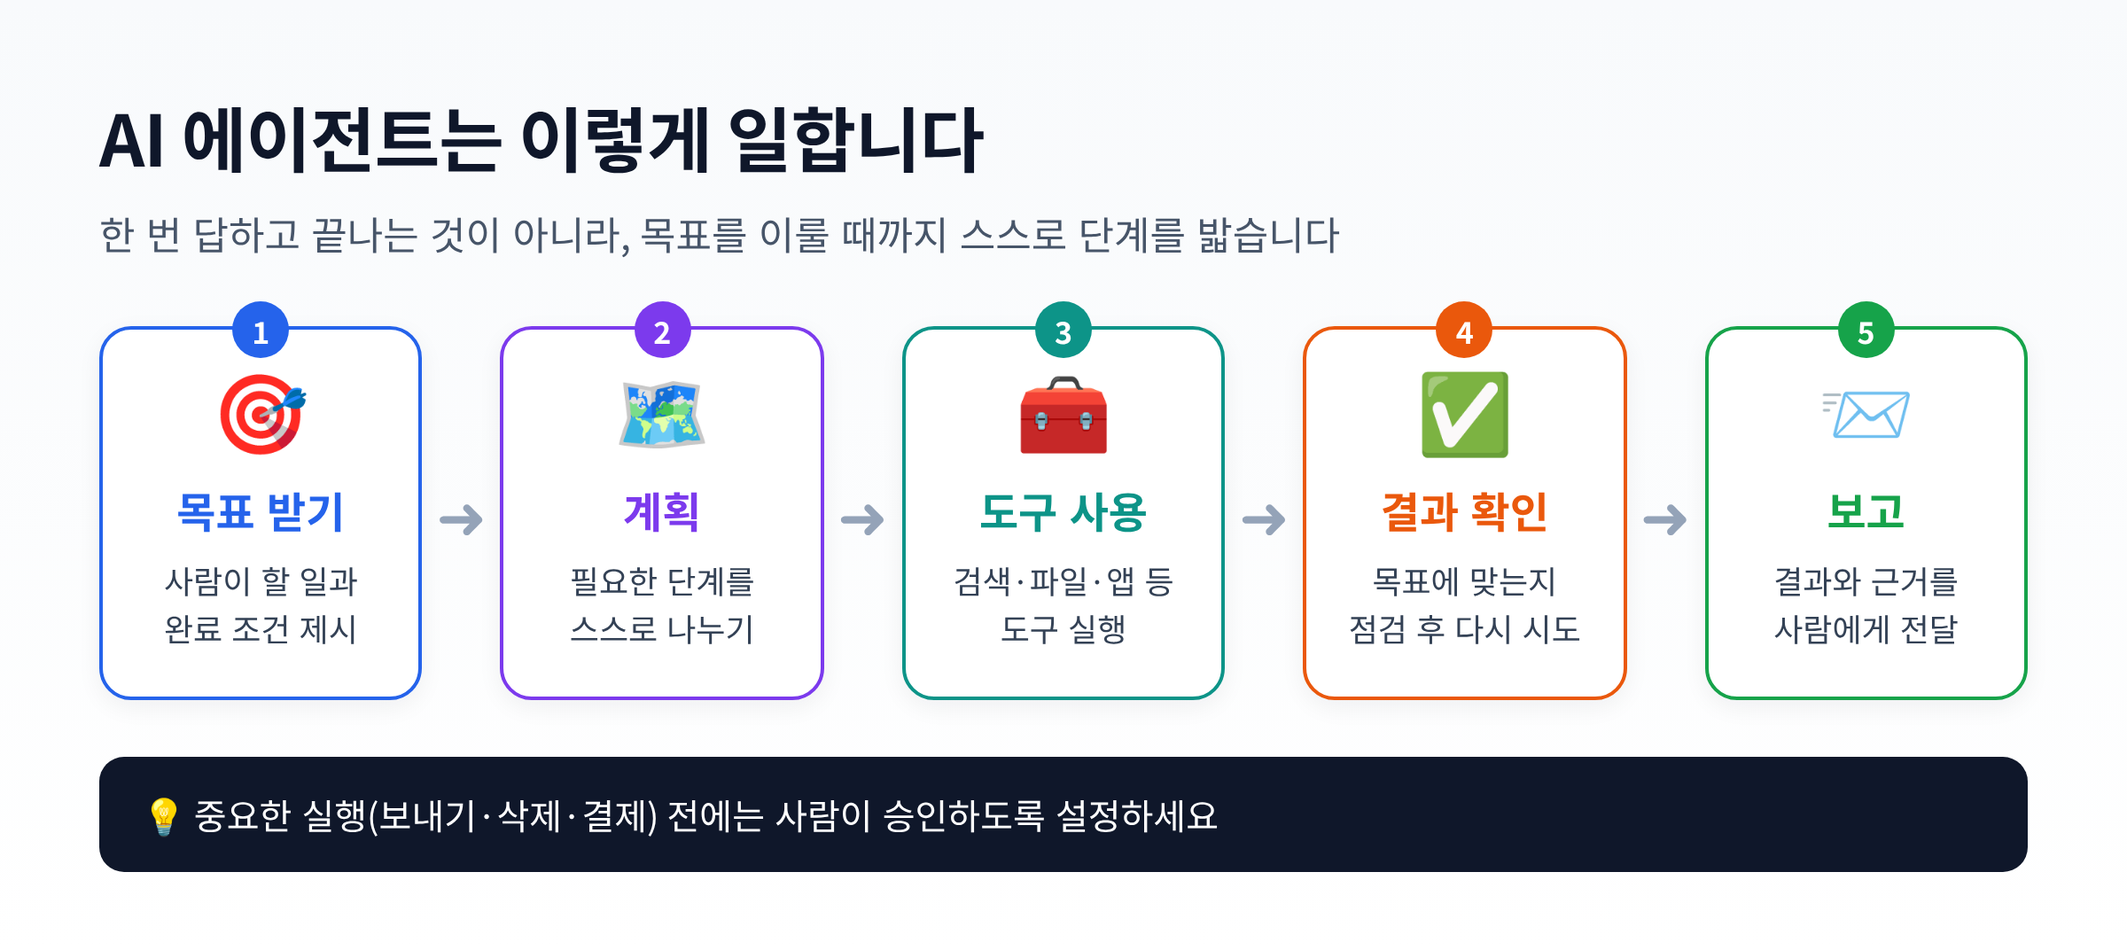
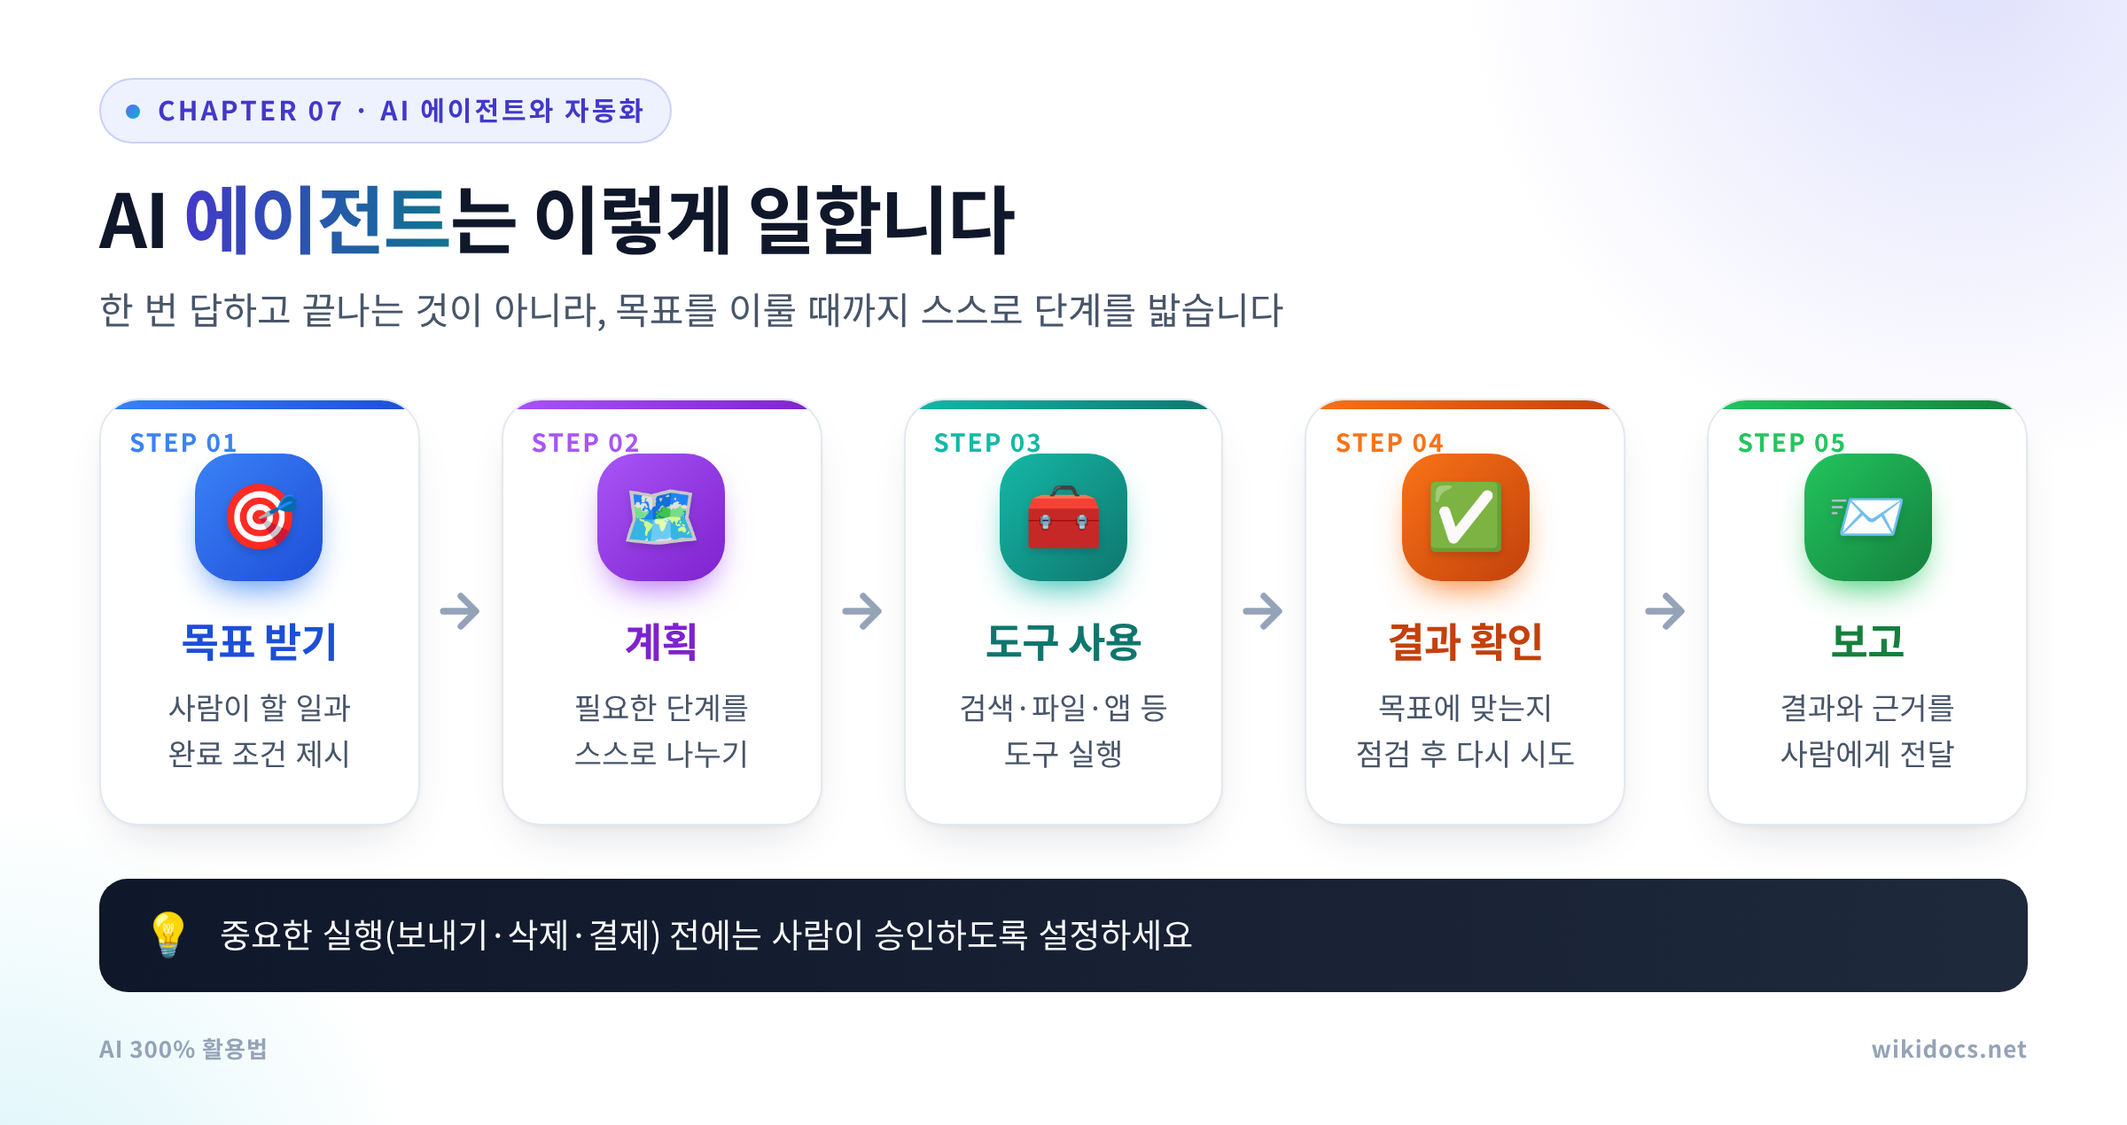
docs: 설명 이미지 디자인 v2 적용
- 14개 이미지 재생성: 책 색 테마(인디고·시안), 장 라벨, 제목 그라데이션 강조, 아이콘 배지
- build_diagrams.py v2: spectrum·triple·stack 레이아웃 추가

Claude-Session: https://claude.ai/code/session_017K4pTUipCchhp4okmF8AU1

diff --git a/tools/build_diagrams.py b/tools/build_diagrams.py
@@ -1,11 +1,20 @@
 #!/usr/bin/env python3
-"""tools/diagrams.yaml 에 정의한 설명 이미지를 assets/*.png 로 만듭니다.
+"""tools/diagrams.yaml 에 정의한 설명 이미지를 assets/*.png 로 만듭니다. (디자인 v2)
 
 사용법:
     python tools/build_diagrams.py            # 전체 다시 만들기
     python tools/build_diagrams.py ch01       # 파일 이름에 'ch01' 이 들어간 것만
 
-필요한 것: Python(pyyaml), Node.js + Playwright(Chromium), 한글 글꼴(Noto Sans CJK KR)
+layout 종류
+    flow     단계 흐름 (steps)
+    cards    카드 묶음 (cards, columns)
+    compare  나쁜 예 → 좋은 예 (left, right)
+    matrix   2x2 판단표 (x_axis, y_axis, cells)
+    spectrum 왼쪽→오른쪽 연속 스펙트럼 (items, left_label, right_label)
+    triple   그래프 관계 (rows: [주어, 관계, 목적어])
+    stack    아래에서 위로 쌓이는 계층 (layers: 위층이 먼저)
+
+필요한 것: Python(pyyaml), Node.js + Playwright, 한글 글꼴(Noto Sans CJK KR), 이모지 글꼴(Noto Color Emoji)
 """
 from __future__ import annotations
 
@@ -21,118 +30,196 @@ import yaml
 ROOT = Path(__file__).resolve().parent.parent
 ASSETS = ROOT / "assets"
 
-COLORS = {  # (진한 색, 연한 배경)
-    "blue": ("#2563EB", "#EFF6FF"), "green": ("#16A34A", "#F0FDF4"),
-    "orange": ("#EA580C", "#FFF7ED"), "purple": ("#7C3AED", "#F5F3FF"),
-    "red": ("#DC2626", "#FEF2F2"), "teal": ("#0D9488", "#F0FDFA"),
-    "gray": ("#475569", "#F1F5F9"),
+PALETTE = {  # 이름: (진한, 중간, 연한)
+    "blue": ("#1D4ED8", "#3B82F6", "#EFF6FF"), "indigo": ("#4338CA", "#6366F1", "#EEF2FF"),
+    "violet": ("#6D28D9", "#8B5CF6", "#F5F3FF"), "purple": ("#7E22CE", "#A855F7", "#FAF5FF"),
+    "pink": ("#BE185D", "#EC4899", "#FDF2F8"), "red": ("#B91C1C", "#EF4444", "#FEF2F2"),
+    "orange": ("#C2410C", "#F97316", "#FFF7ED"), "amber": ("#B45309", "#F59E0B", "#FFFBEB"),
+    "green": ("#15803D", "#22C55E", "#F0FDF4"), "emerald": ("#047857", "#10B981", "#ECFDF5"),
+    "teal": ("#0F766E", "#14B8A6", "#F0FDFA"), "cyan": ("#0E7490", "#06B6D4", "#ECFEFF"),
+    "slate": ("#334155", "#64748B", "#F1F5F9"), "gray": ("#334155", "#64748B", "#F1F5F9"),
 }
 
-CSS = """
-* { box-sizing: border-box; margin: 0; padding: 0; }
-body { background: #fff; font-family: 'Noto Sans CJK KR', 'Noto Sans KR', sans-serif; color: #0F172A; }
-#c { width: 1200px; padding: 48px 56px 44px; background: linear-gradient(180deg, #F8FAFC 0%, #FFFFFF 100%); }
-h1 { font-size: 40px; font-weight: 700; letter-spacing: -0.5px; }
-.sub { margin-top: 10px; font-size: 22px; color: #475569; }
-.body { margin-top: 36px; }
-.icon { font-size: 44px; line-height: 1; font-family: 'Noto Color Emoji', sans-serif; }
-.t { font-size: 24px; font-weight: 700; margin-top: 14px; }
-.d { font-size: 18px; color: #334155; margin-top: 10px; line-height: 1.5; white-space: pre-line; }
-.note { margin-top: 32px; padding: 18px 24px; border-radius: 14px; background: #0F172A; color: #fff;
-        font-size: 20px; font-weight: 500; }
-.note b { color: #FDE68A; }
-/* flow */
-.flow { display: flex; align-items: stretch; }
-.step { flex: 1; background: #fff; border-radius: 18px; padding: 26px 18px 24px; text-align: center;
-        border: 2px solid var(--c); box-shadow: 0 4px 14px rgba(15,23,42,.06); position: relative; }
-.step .t { color: var(--c); }
-.num { position: absolute; top: -16px; left: 50%; transform: translateX(-50%); width: 32px; height: 32px;
-       border-radius: 50%; background: var(--c); color: #fff; font-size: 17px; font-weight: 700;
-       display: flex; align-items: center; justify-content: center; }
-.arrow { width: 44px; display: flex; align-items: center; justify-content: center; color: #94A3B8; font-size: 34px; flex: none; }
-/* cards */
-.grid { display: grid; gap: 20px; }
-.card { background: var(--b); border-radius: 18px; padding: 26px 22px; border-top: 6px solid var(--c); }
-.card .t { color: var(--c); }
-/* compare */
-.cmp { display: grid; grid-template-columns: 1fr 70px 1fr; align-items: stretch; }
-.col { border-radius: 18px; padding: 26px 28px; }
-.col h2 { font-size: 26px; margin-bottom: 16px; }
-.col li { list-style: none; font-size: 20px; line-height: 1.5; padding: 12px 16px; margin-top: 10px;
-          background: #fff; border-radius: 10px; }
-.bad { background: #FEF2F2; border: 2px solid #FCA5A5; } .bad h2 { color: #DC2626; }
-.good { background: #F0FDF4; border: 2px solid #86EFAC; } .good h2 { color: #16A34A; }
-.bad li::before { content: '✕  '; color: #DC2626; font-weight: 700; }
-.good li::before { content: '✓  '; color: #16A34A; font-weight: 700; }
-.mid { display: flex; align-items: center; justify-content: center; font-size: 40px; color: #94A3B8; }
-/* matrix */
-.mx { display: grid; grid-template-columns: 200px 1fr 1fr; grid-template-rows: 56px 1fr 1fr; gap: 16px; }
-.ax { display: flex; align-items: center; justify-content: center; font-size: 20px; font-weight: 700;
-      color: #334155; background: #E2E8F0; border-radius: 12px; text-align: center; padding: 8px; }
-.cell { background: var(--b); border: 2px solid var(--c); border-radius: 18px; padding: 26px; text-align: center; }
-.cell .t { color: var(--c); }
-"""
+
+def pal(name: str | None, default: str) -> tuple[str, str, str]:
+    return PALETTE.get(name or default, PALETTE[default])
 
 
 def esc(s) -> str:
-    return html.escape(str(s or ""))
+    return html.escape(str(s if s is not None else ""))
 
 
-def style(color: str) -> str:
-    c, b = COLORS.get(color or "blue", COLORS["blue"])
-    return f"--c:{c};--b:{b}"
+def css(theme: dict) -> str:
+    p1, p2, p3 = pal(theme.get("primary"), "indigo")
+    s1, s2, _ = pal(theme.get("secondary"), "cyan")
+    return f"""
+* {{ box-sizing: border-box; margin: 0; padding: 0; }}
+body {{ background: #fff; font-family: 'Noto Sans CJK KR', sans-serif; color: #0F172A; -webkit-font-smoothing: antialiased; }}
+#c {{ width: 1200px; padding: 44px 56px 34px; position: relative; overflow: hidden; background: #FFFFFF; }}
+#c::before {{ content: ''; position: absolute; width: 620px; height: 620px; right: -220px; top: -330px;
+  background: radial-gradient(circle, {p2}33 0%, transparent 65%); }}
+#c::after {{ content: ''; position: absolute; width: 520px; height: 520px; left: -260px; bottom: -320px;
+  background: radial-gradient(circle, {s2}26 0%, transparent 65%); }}
+.z {{ position: relative; z-index: 1; }}
+.kicker {{ display: inline-flex; align-items: center; gap: 10px; font-size: 15px; font-weight: 700; letter-spacing: 1.5px;
+  color: {p1}; background: {p3}; border: 1px solid {p2}40; padding: 7px 14px; border-radius: 999px; }}
+.kicker .dot {{ width: 8px; height: 8px; border-radius: 50%; background: linear-gradient(135deg, {p2}, {s2}); }}
+h1 {{ margin-top: 16px; font-size: 42px; font-weight: 800; letter-spacing: -1px; line-height: 1.25; }}
+h1 em {{ font-style: normal; background: linear-gradient(90deg, {p1}, {s1}); -webkit-background-clip: text; color: transparent; }}
+.sub {{ margin-top: 10px; font-size: 21px; color: #475569; line-height: 1.5; }}
+.body {{ margin-top: 34px; }}
+.badge {{ width: 72px; height: 72px; border-radius: 22px; display: flex; align-items: center; justify-content: center;
+  font-size: 36px; font-family: 'Noto Color Emoji', sans-serif; background: linear-gradient(135deg, var(--m), var(--d));
+  box-shadow: 0 10px 20px -8px var(--m); }}
+.badge span {{ filter: drop-shadow(0 2px 2px rgba(0,0,0,.15)); }}
+.t {{ font-size: 23px; font-weight: 800; letter-spacing: -0.3px; color: var(--d); }}
+.d {{ font-size: 17px; color: #475569; line-height: 1.55; white-space: pre-line; }}
+.card {{ background: #fff; border-radius: 22px; padding: 26px 24px; border: 1px solid #E2E8F0;
+  box-shadow: 0 1px 2px rgba(15,23,42,.04), 0 12px 28px -12px rgba(15,23,42,.18); position: relative; overflow: hidden; }}
+.card::before {{ content: ''; position: absolute; left: 0; top: 0; right: 0; height: 5px; background: linear-gradient(90deg, var(--m), var(--d)); }}
+.card .t {{ margin-top: 18px; }} .card .d {{ margin-top: 8px; }}
+.grid {{ display: grid; gap: 22px; }}
+/* flow */
+.flow {{ display: flex; align-items: stretch; }}
+.step {{ flex: 1; text-align: center; padding-top: 30px; }}
+.step .badge {{ margin: 0 auto; }}
+.step .t {{ margin-top: 16px; }} .step .d {{ margin-top: 8px; }}
+.num {{ position: absolute; top: 14px; left: 16px; font-size: 14px; font-weight: 800; color: var(--m); letter-spacing: 1px; }}
+.conn {{ width: 46px; flex: none; display: flex; align-items: center; justify-content: center; }}
+.conn svg {{ width: 34px; height: 34px; }}
+/* compare */
+.cmp {{ display: grid; grid-template-columns: 1fr 64px 1fr; align-items: stretch; }}
+.panel {{ border-radius: 22px; overflow: hidden; background: #fff; border: 1px solid #E2E8F0;
+  box-shadow: 0 12px 28px -12px rgba(15,23,42,.18); }}
+.panel h2 {{ font-size: 22px; font-weight: 800; color: #fff; padding: 18px 26px; display: flex; gap: 10px; align-items: center; }}
+.panel ul {{ padding: 14px 22px 22px; }}
+.panel li {{ list-style: none; font-size: 19px; line-height: 1.5; padding: 13px 16px; margin-top: 10px; border-radius: 12px;
+  display: flex; gap: 12px; align-items: flex-start; }}
+.panel li i {{ font-style: normal; font-weight: 800; flex: none; width: 24px; height: 24px; border-radius: 50%; color: #fff;
+  font-size: 14px; display: flex; align-items: center; justify-content: center; margin-top: 3px; }}
+.bad h2 {{ background: linear-gradient(90deg, #DC2626, #F43F5E); }} .bad li {{ background: #FEF2F2; }} .bad li i {{ background: #EF4444; }}
+.good h2 {{ background: linear-gradient(90deg, #059669, #10B981); }} .good li {{ background: #ECFDF5; }} .good li i {{ background: #10B981; }}
+.mid {{ display: flex; align-items: center; justify-content: center; }}
+/* matrix */
+.mx {{ display: grid; grid-template-columns: 190px 1fr 1fr; grid-template-rows: 54px 1fr 1fr; gap: 16px; }}
+.ax {{ display: flex; align-items: center; justify-content: center; font-size: 18px; font-weight: 800; color: {p1};
+  background: {p3}; border-radius: 14px; text-align: center; padding: 8px; }}
+.cell {{ text-align: center; }} .cell .badge {{ margin: 0 auto; }} .cell .t {{ margin-top: 14px; }}
+/* spectrum */
+.spec-bar {{ height: 16px; border-radius: 999px; margin: 8px 0 26px; background: linear-gradient(90deg, #EF4444, #F59E0B, #10B981); position: relative; }}
+.spec-labels {{ display: flex; justify-content: space-between; font-size: 16px; font-weight: 700; color: #64748B; }}
+/* triple */
+.trip {{ display: flex; flex-direction: column; gap: 18px; }}
+.row {{ display: grid; grid-template-columns: 1fr 260px 1fr; align-items: center; }}
+.node {{ border-radius: 999px; padding: 16px 22px; text-align: center; font-size: 21px; font-weight: 800; color: var(--d);
+  background: var(--l); border: 2px solid var(--m); box-shadow: 0 10px 22px -14px var(--m); }}
+.node small {{ display: block; font-size: 14px; font-weight: 600; color: #64748B; margin-top: 2px; }}
+.edge {{ position: relative; text-align: center; font-size: 17px; font-weight: 700; color: #334155; }}
+.edge::before {{ content: ''; position: absolute; left: 6px; right: 14px; top: 50%; height: 3px; background: linear-gradient(90deg, {p2}, {s2}); }}
+.edge::after {{ content: ''; position: absolute; right: 4px; top: calc(50% - 8px); border: 9px solid transparent; border-left: 13px solid {s2}; border-right: 0; }}
+.edge span {{ position: relative; background: #fff; padding: 4px 12px; border-radius: 999px; border: 1px solid #E2E8F0; }}
+/* stack */
+.stack {{ display: flex; flex-direction: column; gap: 12px; }}
+.layer {{ display: grid; grid-template-columns: 72px 260px 1fr; gap: 22px; align-items: center; padding: 16px 22px;
+  border-radius: 18px; background: #fff; border: 1px solid #E2E8F0; border-left: 8px solid var(--m);
+  box-shadow: 0 10px 24px -16px rgba(15,23,42,.25); }}
+.layer .badge {{ width: 60px; height: 60px; font-size: 30px; border-radius: 18px; }}
+/* note & footer */
+.note {{ margin-top: 30px; padding: 18px 24px; border-radius: 16px; display: flex; gap: 14px; align-items: center;
+  background: linear-gradient(90deg, #0F172A, #1E293B); color: #F8FAFC; font-size: 19px; font-weight: 500; }}
+.note .ic {{ font-family: 'Noto Color Emoji'; font-size: 24px; }}
+.foot {{ margin-top: 22px; display: flex; justify-content: space-between; font-size: 13px; color: #94A3B8; font-weight: 600; letter-spacing: .5px; }}
+"""
 
 
-def note_html(note: str | None) -> str:
-    return f'<div class="note">💡 {esc(note)}</div>' if note else ""
+def vars_(color: str | None, default: str = "indigo") -> str:
+    d, m, l = pal(color, default)
+    return f"--d:{d};--m:{m};--l:{l}"
 
 
-def flow(d: dict) -> str:
-    parts = []
+def badge(icon) -> str:
+    return f'<div class="badge"><span>{esc(icon)}</span></div>'
+
+
+ARROW = ('<svg viewBox="0 0 24 24" fill="none"><path d="M5 12h12m-5-6 6 6-6 6" stroke="#94A3B8" '
+         'stroke-width="2.6" stroke-linecap="round" stroke-linejoin="round"/></svg>')
+
+
+def flow(d, th):
+    out = []
     for i, s in enumerate(d["steps"], 1):
         if i > 1:
-            parts.append('<div class="arrow">➜</div>')
-        parts.append(f'<div class="step" style="{style(s.get("color"))}"><div class="num">{i}</div>'
-                     f'<div class="icon">{esc(s.get("icon"))}</div><div class="t">{esc(s["title"])}</div>'
-                     f'<div class="d">{esc(s.get("desc"))}</div></div>')
-    return f'<div class="flow">{"".join(parts)}</div>'
+            out.append(f'<div class="conn">{ARROW}</div>')
+        out.append(f'<div class="card step" style="{vars_(s.get("color"))}"><div class="num">STEP {i:02d}</div>'
+                   f'{badge(s.get("icon"))}<div class="t">{esc(s["title"])}</div><div class="d">{esc(s.get("desc"))}</div></div>')
+    return f'<div class="flow">{"".join(out)}</div>'
 
 
-def cards(d: dict) -> str:
-    cols = d.get("columns", 3)
-    items = "".join(
-        f'<div class="card" style="{style(c.get("color"))}"><div class="icon">{esc(c.get("icon"))}</div>'
-        f'<div class="t">{esc(c["title"])}</div><div class="d">{esc(c.get("desc"))}</div></div>'
-        for c in d["cards"])
-    return f'<div class="grid" style="grid-template-columns:repeat({cols},1fr)">{items}</div>'
+def cards(d, th):
+    items = "".join(f'<div class="card" style="{vars_(c.get("color"))}">{badge(c.get("icon"))}'
+                    f'<div class="t">{esc(c["title"])}</div><div class="d">{esc(c.get("desc"))}</div></div>'
+                    for c in d["cards"])
+    return f'<div class="grid" style="grid-template-columns:repeat({d.get("columns", 3)},1fr)">{items}</div>'
 
 
-def compare(d: dict) -> str:
-    def col(side: dict, cls: str) -> str:
-        lis = "".join(f"<li>{esc(x)}</li>" for x in side["items"])
-        return f'<div class="col {cls}"><h2>{esc(side["title"])}</h2><ul>{lis}</ul></div>'
-    return f'<div class="cmp">{col(d["left"], "bad")}<div class="mid">➜</div>{col(d["right"], "good")}</div>'
+def compare(d, th):
+    def panel(side, cls, mark):
+        lis = "".join(f"<li><i>{mark}</i><span>{esc(x)}</span></li>" for x in side["items"])
+        return f'<div class="panel {cls}"><h2>{esc(side["title"])}</h2><ul>{lis}</ul></div>'
+    return (f'<div class="cmp">{panel(d["left"], "bad", "✕")}<div class="mid"><div class="conn">{ARROW}</div></div>'
+            f'{panel(d["right"], "good", "✓")}</div>')
 
 
-def matrix(d: dict) -> str:
+def matrix(d, th):
     x, y, c = d["x_axis"], d["y_axis"], d["cells"]
 
-    def cell(k: dict) -> str:
-        return (f'<div class="cell" style="{style(k.get("color"))}"><div class="icon">{esc(k.get("icon"))}</div>'
+    def cell(k):
+        return (f'<div class="card cell" style="{vars_(k.get("color"))}">{badge(k.get("icon"))}'
                 f'<div class="t">{esc(k["title"])}</div><div class="d">{esc(k.get("desc"))}</div></div>')
     return (f'<div class="mx"><div></div><div class="ax">{esc(x[0])}</div><div class="ax">{esc(x[1])}</div>'
-            f'<div class="ax">{esc(y[0])}</div>{cell(c[0])}{cell(c[1])}'
-            f'<div class="ax">{esc(y[1])}</div>{cell(c[2])}{cell(c[3])}</div>')
+            f'<div class="ax">{esc(y[0])}</div>{cell(c[0])}{cell(c[1])}<div class="ax">{esc(y[1])}</div>{cell(c[2])}{cell(c[3])}</div>')
 
 
-LAYOUTS = {"flow": flow, "cards": cards, "compare": compare, "matrix": matrix}
+def spectrum(d, th):
+    labels = f'<div class="spec-labels"><span>{esc(d.get("left_label"))}</span><span>{esc(d.get("right_label"))}</span></div>'
+    return f'{labels}<div class="spec-bar"></div>' + cards({"cards": d["items"], "columns": len(d["items"])}, th)
 
 
-def page(d: dict) -> str:
+def triple(d, th):
+    rows = []
+    for r in d["rows"]:
+        s, p, o = r["s"], r["p"], r["o"]
+        rows.append(f'<div class="row"><div class="node" style="{vars_(s.get("color"), "indigo")}">{esc(s["label"])}'
+                    f'<small>{esc(s.get("type"))}</small></div><div class="edge"><span>{esc(p)}</span></div>'
+                    f'<div class="node" style="{vars_(o.get("color"), "teal")}">{esc(o["label"])}<small>{esc(o.get("type"))}</small></div></div>')
+    return f'<div class="trip">{"".join(rows)}</div>'
+
+
+def stack(d, th):
+    rows = "".join(f'<div class="layer" style="{vars_(l.get("color"))}">{badge(l.get("icon"))}'
+                   f'<div class="t">{esc(l["title"])}</div><div class="d">{esc(l.get("desc"))}</div></div>'
+                   for l in d["layers"])
+    return f'<div class="stack">{rows}</div>'
+
+
+LAYOUTS = {"flow": flow, "cards": cards, "compare": compare, "matrix": matrix,
+           "spectrum": spectrum, "triple": triple, "stack": stack}
+
+
+def title_html(t: str) -> str:
+    # *강조* 표기를 그라데이션 강조로
+    parts = esc(t).split("*")
+    return "".join(f"<em>{p}</em>" if i % 2 else p for i, p in enumerate(parts))
+
+
+def page(d: dict, th: dict) -> str:
+    kicker = d.get("kicker") or th.get("book", "")
     sub = f'<div class="sub">{esc(d["subtitle"])}</div>' if d.get("subtitle") else ""
-    return (f'<!doctype html><html><head><meta charset="utf-8"><style>{CSS}</style></head><body>'
-            f'<div id="c"><h1>{esc(d["title"])}</h1>{sub}<div class="body">{LAYOUTS[d["layout"]](d)}</div>'
-            f'{note_html(d.get("note"))}</div></body></html>')
+    note = (f'<div class="note"><span class="ic">💡</span><span>{esc(d["note"])}</span></div>' if d.get("note") else "")
+    foot = f'<div class="foot"><span>{esc(th.get("book", ""))}</span><span>{esc(th.get("site", "wikidocs.net"))}</span></div>'
+    return (f'<!doctype html><html><head><meta charset="utf-8"><style>{css(th)}</style></head><body><div id="c"><div class="z">'
+            f'<div class="kicker"><span class="dot"></span>{esc(kicker)}</div><h1>{title_html(d["title"])}</h1>{sub}'
+            f'<div class="body">{LAYOUTS[d["layout"]](d, th)}</div>{note}{foot}</div></div></body></html>')
 
 
 SHOT_JS = """
@@ -155,6 +242,7 @@ const jobs = JSON.parse(process.argv[2]);
 def main() -> None:
     only = sys.argv[1] if len(sys.argv) > 1 else ""
     data = yaml.safe_load((ROOT / "tools" / "diagrams.yaml").read_text(encoding="utf-8"))
+    theme = data.get("theme", {})
     ASSETS.mkdir(exist_ok=True)
     jobs = []
     with tempfile.TemporaryDirectory() as tmp:
@@ -164,7 +252,7 @@ def main() -> None:
             if d["layout"] not in LAYOUTS:
                 sys.exit(f"[오류] 알 수 없는 layout: {d['layout']} ({d['file']})")
             h = Path(tmp) / (Path(d["file"]).stem + ".html")
-            h.write_text(page(d), encoding="utf-8")
+            h.write_text(page(d, theme), encoding="utf-8")
             jobs.append({"html": str(h), "png": str(ASSETS / d["file"]), "name": d["file"]})
         if not jobs:
             sys.exit("만들 이미지가 없습니다.")

diff --git a/CHANGELOG.md b/CHANGELOG.md
@@ -8,3 +8,4 @@
 - 2026-11-21 — 01장(AI 이해하기)·02장(프롬프트 기본기) 본문 작성, 위키독스 전용 문법(TIP·SubPages) 적용, 스타일 가이드 추가
 - 2026-11-21 — 05장(AI 도구 지도) 본문 작성: 유형별 도구 7개 페이지, 활용 예시 프롬프트, 도구별 팁, 출처
 - 2026-11-22 — 설명 이미지 14개 추가 (장 대표 이미지 10개, 페이지 이미지 4개), 이미지 생성 도구 tools/build_diagrams.py
+- 2026-11-22 — 설명 이미지 디자인 v2 적용 (색 테마·장 라벨·제목 강조·아이콘 배지, 새 레이아웃 3종)
